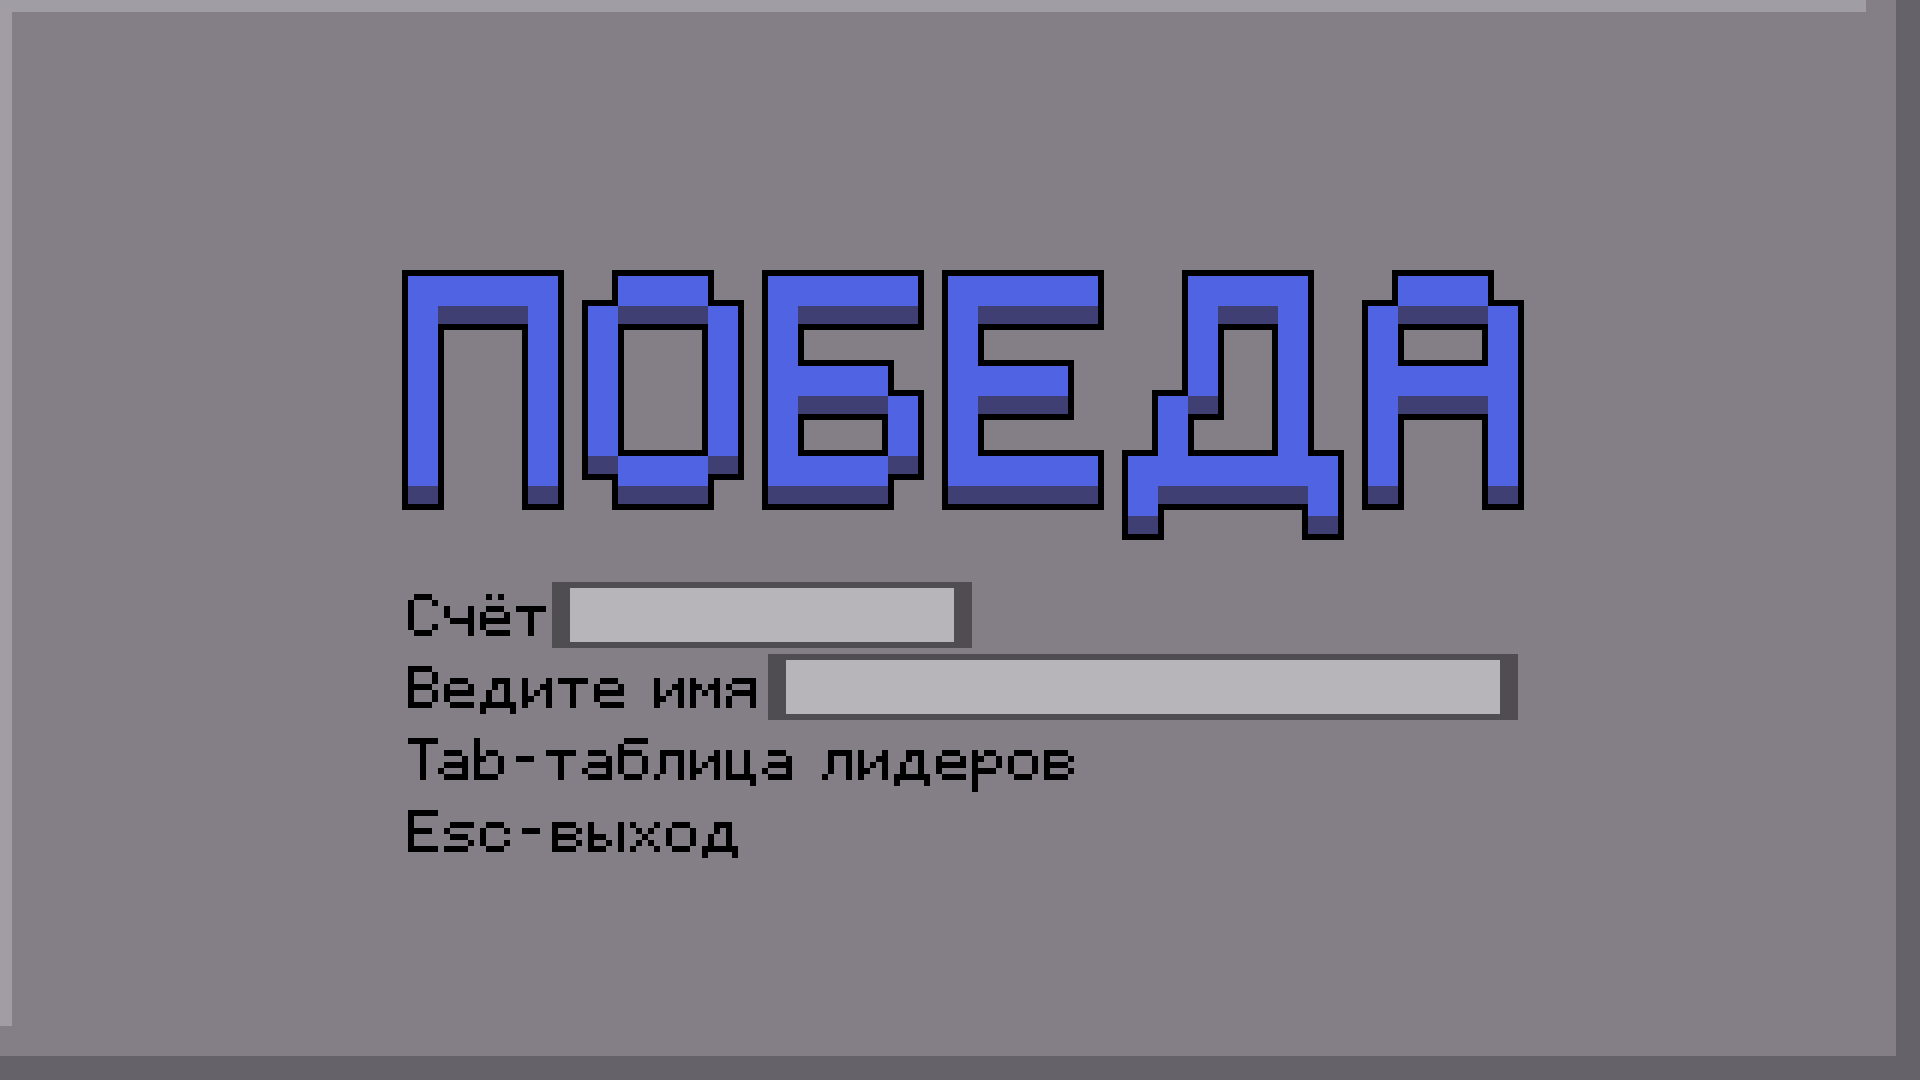
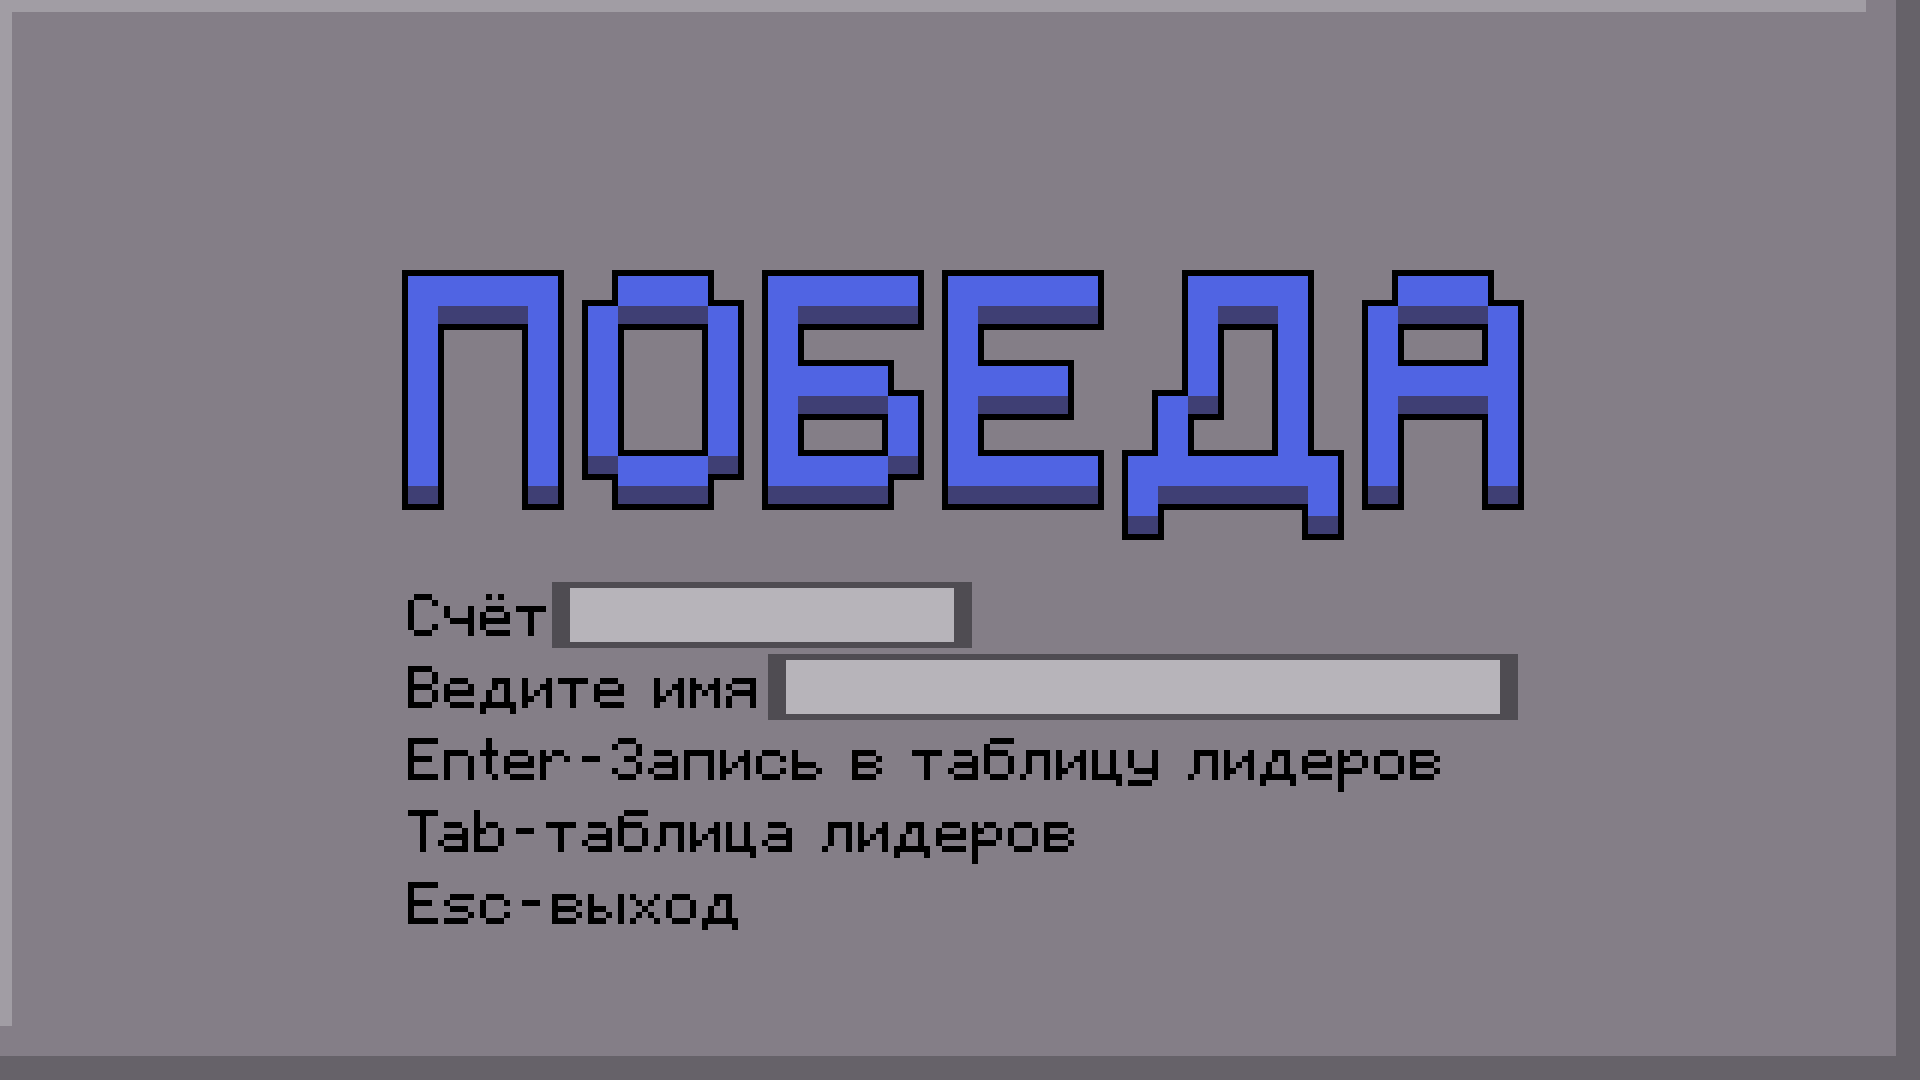
Заполнение лидерборда готово

Changed region(s): [[0.1875, 0.6722, 0.75, 0.7944], [0.1875, 0.825, 0.4062, 0.8556]]

diff --git a/Main.cpp b/Main.cpp
@@ -7,6 +7,7 @@
 #include <cstdlib>
 #include <ctime>
 #include <queue>
+#include <fstream>
 
 const int WINDOW_WIDTH = 1920;
 const int WINDOW_HEIGHT = 1080;
@@ -395,6 +396,29 @@ void ArrowReset(std::vector<std::vector<int>>& grid) {
     }
 }
 
+void saveToFile(const std::string& input, int score) {
+    std::ofstream outFile("LB.txt", std::ios::app);
+    if (outFile.is_open()) {
+        outFile << input << " " << score << "\n";
+        outFile.close();
+    }
+    else {
+        std::cerr << "Unable to open file for writing." << std::endl;
+    }
+}
+
+void TextRender(SDL_Renderer* renderer, TTF_Font* font, const std::string& text, int x, int y) {
+    SDL_Color textColor = { 0, 0, 0, 255 };
+    SDL_Surface* textSurface = TTF_RenderUTF8_Solid(font, text.c_str(), textColor);
+    SDL_Texture* textTexture = SDL_CreateTextureFromSurface(renderer, textSurface);
+    int textWidth, textHeight;
+    SDL_QueryTexture(textTexture, nullptr, nullptr, &textWidth, &textHeight);
+    SDL_Rect textRect = { x, y, textWidth, textHeight };
+    SDL_RenderCopy(renderer, textTexture, nullptr, &textRect);
+    SDL_FreeSurface(textSurface);
+    SDL_DestroyTexture(textTexture);
+}
+
 int main(int argc, char* argv[]) {
     // Инициализация SDL и SDL_image
     if (!initSDL()) {
@@ -454,9 +478,10 @@ int main(int argc, char* argv[]) {
     int currentShip = 0;
     int cursorX = 0;
     int cursorY = 0;
+    std::string inputText = "";
 
-    std::vector<Ship> ships = { Ship(4), Ship(3), Ship(3), Ship(2), Ship(2), Ship(2), Ship(1), Ship(1), Ship(1), Ship(1) };
-    //std::vector<Ship> ships = { Ship(1), Ship(1) };
+    //std::vector<Ship> ships = { Ship(4), Ship(3), Ship(3), Ship(2), Ship(2), Ship(2), Ship(1), Ship(1), Ship(1), Ship(1) };
+    std::vector<Ship> ships = { Ship(1), Ship(1) };
     std::vector<std::vector<int>> grid(10, std::vector<int>(10, 0));
 
     std::vector<std::vector<int>> enemy_field(10, std::vector<int>(10, 0));
@@ -469,6 +494,9 @@ int main(int argc, char* argv[]) {
         while (SDL_PollEvent(&event)) {
             if (event.type == SDL_QUIT) {
                 running = false;
+            }
+            if (event.type == SDL_TEXTINPUT) {
+                inputText += event.text.text;
             }
             if (event.type == SDL_KEYDOWN) {
                 if (event.key.keysym.sym == SDLK_ESCAPE) {
@@ -532,13 +560,22 @@ int main(int argc, char* argv[]) {
                                 Play = false;
                                 Player_attack = false;
                                 Enemy_attack = false;
+                                inputText = "";
                             }
                         }
                         break;
                     }
                 }
                 if (Win || Loose) {
-                    
+                    if (event.key.keysym.sym == SDLK_BACKSPACE && inputText.length() > 0) {
+                        inputText.pop_back();
+                    }
+                    else if (event.key.keysym.sym == SDLK_RETURN) {
+                        if (inputText.length() >= 2) {
+                            saveToFile(inputText, score);
+                            inputText = "";
+                        }
+                    }
                     if (event.key.keysym.sym == SDLK_r) {
                         score = 100;
                         number_of_shots = 100;
@@ -586,104 +623,42 @@ int main(int argc, char* argv[]) {
                 //std::cout << "Play" << std::endl;
             }
         }
-        //SDL_RenderCopy(renderer, background, nullptr, nullptr);
         
         // Вывод текста при размещении
         if (Placement == true)
         {
-            SDL_Color textColor = { 0, 0, 0, 255 };
-            // Первая строчка
-            {
-            SDL_Surface* textSurface = TTF_RenderUTF8_Solid(font, "w/a/s/d - передвижение", textColor);
-            SDL_Texture* textTexture = SDL_CreateTextureFromSurface(renderer, textSurface);
-            int textWidth, textHeight;
-            SDL_QueryTexture(textTexture, nullptr, nullptr, &textWidth, &textHeight);
-            SDL_Rect textRect = { 66, 726, textWidth, textHeight };
-            SDL_RenderCopy(renderer, textTexture, nullptr, &textRect);
-            SDL_FreeSurface(textSurface);
-            SDL_DestroyTexture(textTexture); }
-            // Вторая строчка
-            {
-            SDL_Surface* textSurface = TTF_RenderUTF8_Solid(font, "r - поворот", textColor);
-            SDL_Texture* textTexture = SDL_CreateTextureFromSurface(renderer, textSurface);
-            int textWidth, textHeight;
-            SDL_QueryTexture(textTexture, nullptr, nullptr, &textWidth, &textHeight);
-            SDL_Rect textRect = { 66, 798, textWidth, textHeight };
-            SDL_RenderCopy(renderer, textTexture, nullptr, &textRect);
-            SDL_FreeSurface(textSurface);
-            SDL_DestroyTexture(textTexture); }
-            // Третья строчка
-            {
-            SDL_Surface* textSurface = TTF_RenderUTF8_Solid(font, "Enter - разместить", textColor);
-            SDL_Texture* textTexture = SDL_CreateTextureFromSurface(renderer, textSurface);
-            int textWidth, textHeight;
-            SDL_QueryTexture(textTexture, nullptr, nullptr, &textWidth, &textHeight);
-            SDL_Rect textRect = { 66, 870, textWidth, textHeight };
-            SDL_RenderCopy(renderer, textTexture, nullptr, &textRect);
-            SDL_FreeSurface(textSurface);
-            SDL_DestroyTexture(textTexture); }
+            TextRender(renderer, font, "w/a/s/d - передвижение", 66, 726);
+            TextRender(renderer, font, "r - поворот", 66, 798);
+            TextRender(renderer, font, "Enter - разместить", 66, 870);
         }
         // Отрисовка счёта при игре
         if (Play == true) {
-            SDL_Color textColor = { 0, 0, 0, 255 };
-            SDL_Surface* textSurface = TTF_RenderUTF8_Solid(font, std::to_string(score).c_str(), textColor);
-            SDL_Texture* textTexture = SDL_CreateTextureFromSurface(renderer, textSurface);
-            int textWidth, textHeight;
-            SDL_QueryTexture(textTexture, nullptr, nullptr, &textWidth, &textHeight);
-            SDL_Rect textRect = { WINDOW_WIDTH - 450, 198, textWidth, textHeight };
-            SDL_RenderCopy(renderer, textTexture, nullptr, &textRect);
-            SDL_FreeSurface(textSurface);
-            SDL_DestroyTexture(textTexture);
+            TextRender(renderer, font, std::to_string(score).c_str(), WINDOW_WIDTH - 450, 198);
         }
         // Вывод текста при игре
         if (Play == true)
         {
-            SDL_Color textColor = { 0, 0, 0, 255 };
-            // Первая строчка
-            {
-                SDL_Surface* textSurface = TTF_RenderUTF8_Solid(font, "w/a/s/d - передвижение", textColor);
-                SDL_Texture* textTexture = SDL_CreateTextureFromSurface(renderer, textSurface);
-                int textWidth, textHeight;
-                SDL_QueryTexture(textTexture, nullptr, nullptr, &textWidth, &textHeight);
-                SDL_Rect textRect = { 66, 726, textWidth, textHeight };
-                SDL_RenderCopy(renderer, textTexture, nullptr, &textRect);
-                SDL_FreeSurface(textSurface);
-                SDL_DestroyTexture(textTexture); }
-            // Вторая строчка
-            {
-                SDL_Surface* textSurface = TTF_RenderUTF8_Solid(font, "Enter - выстрел", textColor);
-                SDL_Texture* textTexture = SDL_CreateTextureFromSurface(renderer, textSurface);
-                int textWidth, textHeight;
-                SDL_QueryTexture(textTexture, nullptr, nullptr, &textWidth, &textHeight);
-                SDL_Rect textRect = { 66, 798, textWidth, textHeight };
-                SDL_RenderCopy(renderer, textTexture, nullptr, &textRect);
-                SDL_FreeSurface(textSurface);
-                SDL_DestroyTexture(textTexture); }
+            TextRender(renderer, font, "w/a/s/d - передвижение", 66, 726);
+            TextRender(renderer, font, "Enter - выстрел", 66, 798);
         }
         // Отрисовка счёта при выигрыше
         if (Win == true) {
-            SDL_Color textColor = { 0, 0, 0, 255 };
-            SDL_Surface* textSurface = TTF_RenderUTF8_Solid(font, std::to_string(score).c_str(), textColor);
-            SDL_Texture* textTexture = SDL_CreateTextureFromSurface(renderer, textSurface);
-            int textWidth, textHeight;
-            SDL_QueryTexture(textTexture, nullptr, nullptr, &textWidth, &textHeight);
-            SDL_Rect textRect = { 582, 594, textWidth, textHeight };
-            SDL_RenderCopy(renderer, textTexture, nullptr, &textRect);
-            SDL_FreeSurface(textSurface);
-            SDL_DestroyTexture(textTexture);
+            TextRender(renderer, font, std::to_string(score).c_str(), 582, 594);
         }
         // Отрисовка счёта при проигрыше
         if (Loose == true) {
-            SDL_Color textColor = { 0, 0, 0, 255 };
-            SDL_Surface* textSurface = TTF_RenderUTF8_Solid(font, std::to_string(score).c_str(), textColor);
-            SDL_Texture* textTexture = SDL_CreateTextureFromSurface(renderer, textSurface);
-            int textWidth, textHeight;
-            SDL_QueryTexture(textTexture, nullptr, nullptr, &textWidth, &textHeight);
-            SDL_Rect textRect = { 306, 594, textWidth, textHeight };
-            SDL_RenderCopy(renderer, textTexture, nullptr, &textRect);
-            SDL_FreeSurface(textSurface);
-            SDL_DestroyTexture(textTexture);
+            TextRender(renderer, font, std::to_string(score).c_str(), 306, 594);
         }
+        // Отрисовка имени при выигрыше
+        if (Win == true) {
+            TextRender(renderer, font, inputText.c_str(), 792, 666);
+        }
+        // Отрисовка имени при проигрыше
+        if (Loose == true) {
+            TextRender(renderer, font, inputText.c_str(), 522, 666);
+        }
+
+
         // Рендер размещённых кораблей
         if (Placement) {
             for (int i = 0; i < currentShip; ++i) {
@@ -735,6 +710,7 @@ int main(int argc, char* argv[]) {
                 Play = false;
                 Player_attack = false;
                 Enemy_attack = false;
+                inputText = "";
             }
         }
     }
